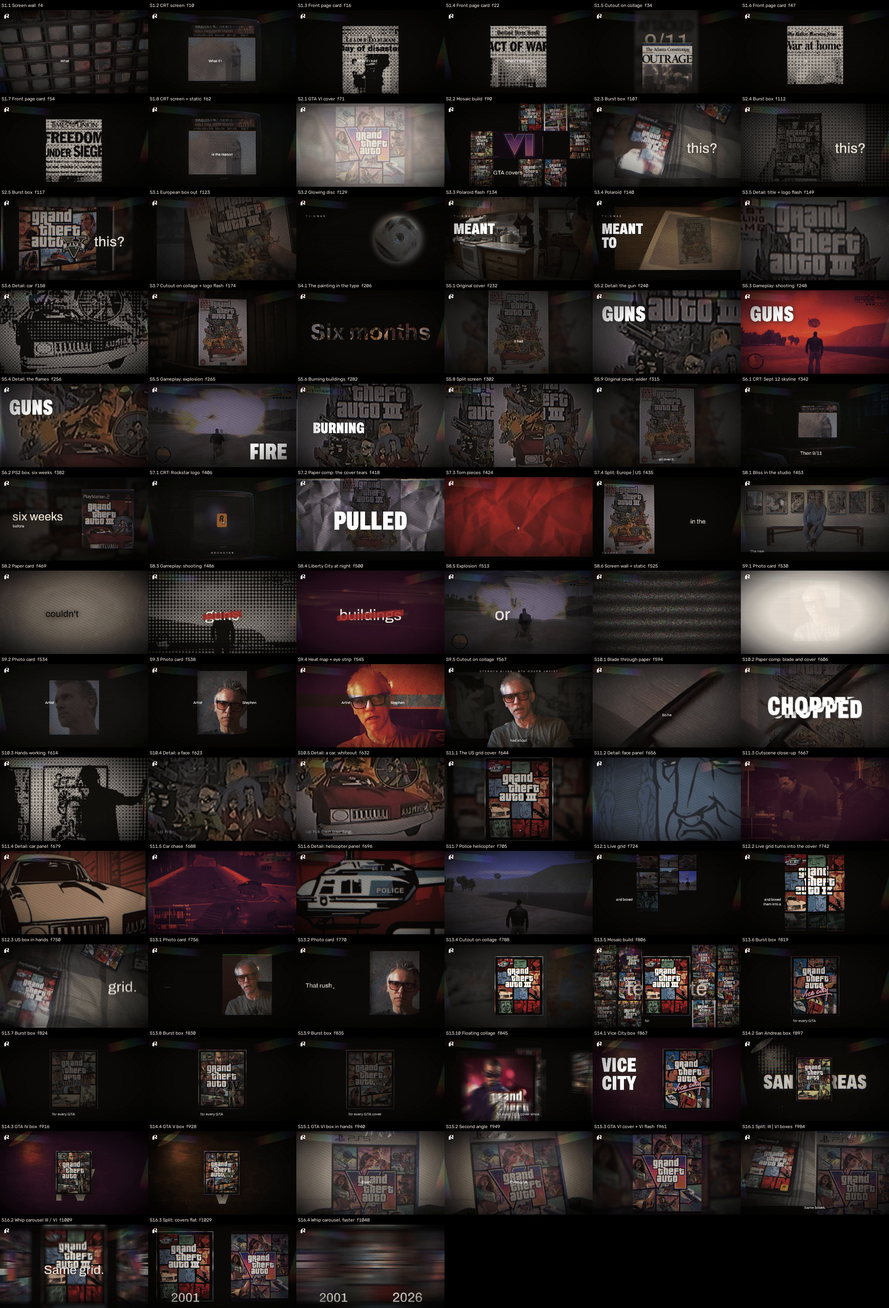
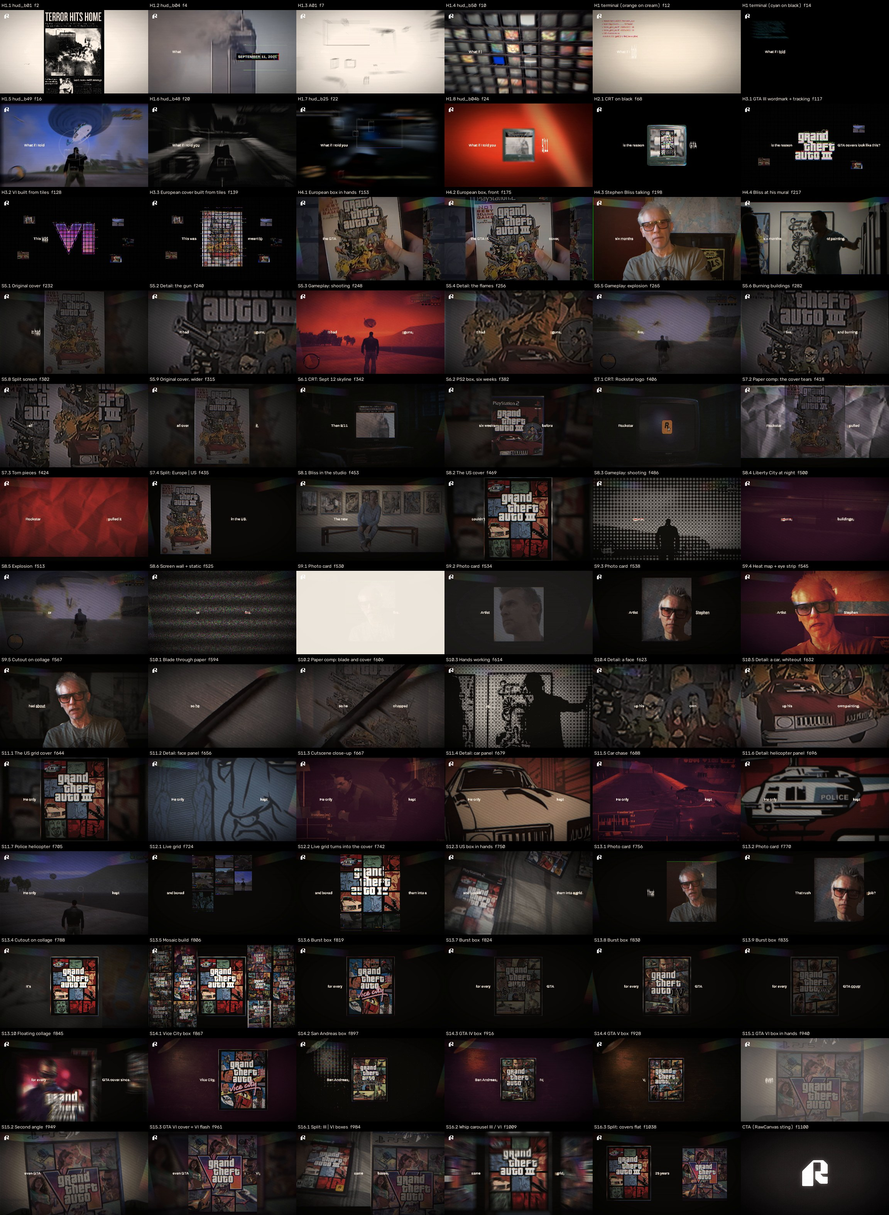
Reel v3: frame-exact export join, final contact sheet, export notes
Claude-Session: https://claude.ai/code/session_01Gm9Yp3fAuoBuwqFpYvjPeA

diff --git a/gta-911-cover-reel/build/sheet.py b/gta-911-cover-reel/build/sheet.py
@@ -21,7 +21,7 @@ def shots():
                     b = a + sub["playback"]["inputRange"]["start"]; out.append((sub["name"], b, sub["playback"]["inputRange"]["duration"]))
                 continue
             out.append((sh["name"], a, d))
-    out.append(("CTA", 1057 * 1000 / 30, 67 * 1000 / 30))
+    out.append(("CTA (RawCanvas sting)", 1057 * 1000 / 30, 86 * 1000 / 30))   # tile at frame 1100, clear of the sting's negative flicker
     return sorted(out, key=lambda x: x[1])
 
 

diff --git a/gta-911-cover-reel/NOTES.md b/gta-911-cover-reel/NOTES.md
@@ -103,10 +103,12 @@ To rebuild from `source/`, run `build/make.py` followed by `build/export.sh`. Th
 
 ## Export
 
-- Rendered with motion blur in two halves in parallel (about 18 minutes each here), then joined. `build/export.sh` renders the last half second separately and tops up any frames the exporter drops at the very end of the timeline: one frame in v2, two in v1.
-- The final file is 1,057 frames, 35.233 s, 1920 × 1080, 30 fps. The audio is the voiceover WAV as AAC 256 kb/s, with no other audio.
-- The voiceover is left at its supplied level, −21.4 LUFS integrated. Raise it if the platform expects louder.
-- Checked: the duration, frame count and streams; levels across the join; and one frame from every shot (the contact sheet). I can't play audio here, so lip-free VO sync is checked by word timings, not by ear.
+- **Rendering:** the two halves are rendered with motion blur in parallel (about 22 minutes each here). The MP4 exporter drops a few frames at the end of each range (3 and 2 in v3), so `build/export.sh` renders each half's last 16 frames again as ProRes, puts the missing ones back in place, and joins the halves frame-exact.
+- **Check:** the restored and neighbouring frames matched their sources (mean difference 0.1–0.3, against 3.3 for a 3-frame shift). Earlier versions topped up only at the end, so v2's second half may have sat a frame early.
+- **The file:** 1,124 frames, 37.467 s, 1920 × 1080, 30 fps, H.264 at CRF 14.
+- **Audio:** Tesseract's own mix (`export-audio`): the voiceover plus the CTA's sound, as AAC 256 kb/s stereo. The voiceover is at its supplied level. It measures −18.4 LUFS integrated because the mono voice now sits in both stereo channels; it sounds the same as before.
+- **CTA flicker:** the CTA's brief negative flickers (its frames 31, 34 and 35) are in the supplied clip.
+- **Not checked:** I can't listen here, so voiceover sync is checked by word timings, not by ear.
 
 ## Voiceover
 
